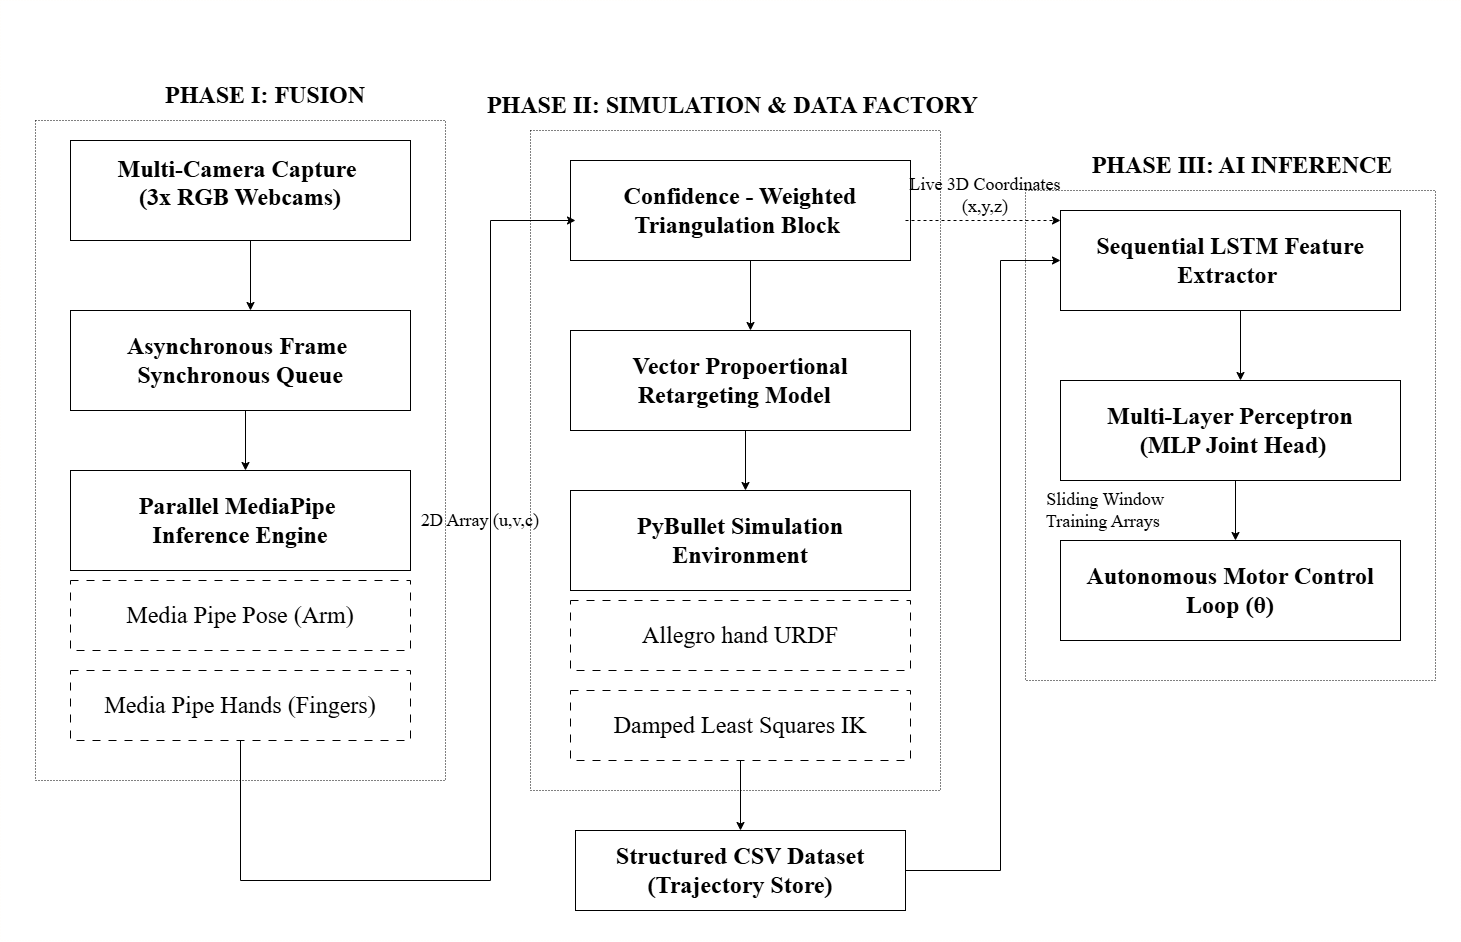
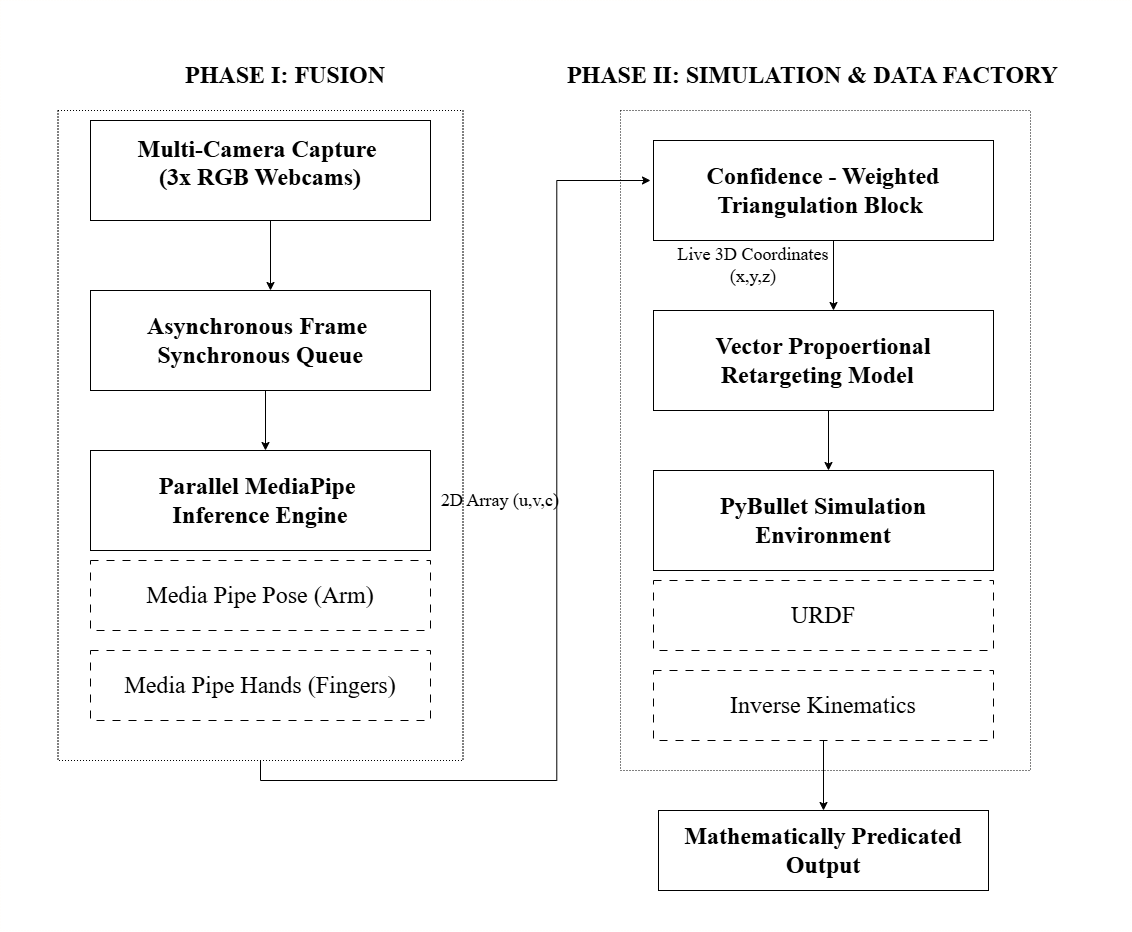
few changes

diff --git a/src/chapters/systemArchitectureAndMethodology.tex b/src/chapters/systemArchitectureAndMethodology.tex
@@ -1,8 +1,6 @@
 \chapter{PROPOSED SYSTEM/ METHODOLOGY}
 \section{System Overview}
-\usetikzlibrary{shapes.geometric, arrows, positioning, fit, backgrounds}
-The MotionBridge framework is designed as a modular, hardware-agnostic software pipeline that translates real-time multi-view human upper limb movements directly into physical simulation joint trajectories, automating behavioral cloning dataset factory operations. The structural design isolates computer vision feature extraction from physical joint simulation and downstream time-series machine learning policies. The high-level static distribution of components, interfaces, and boundary layers across the three primary execution phases of the framework is illustrated in Figure \ref{fig:block_diagram}.
-
+The MotionBridge framework is designed as a modular, hardware-agnostic software pipeline that translates real-time multi-view human upper limb movements directly into physical simulation joint trajectories, automating behavioral cloning dataset factory operations. The structural design isolates computer vision feature extraction in Phase I from physical joint simulation and serialization loops in Phase II. This analytical execution pipeline bypasses heavy iterative matrix math during runtime to achieve real-time performance, continuously serializing the resulting mathematically predicted joint angles and tracking coordinates. The distribution of components, interfaces, and boundary layers across the primary execution phases of the framework is illustrated in Figure \ref{fig:block_diagram}.
 \begin{figure}[H]
     \centering
     \includegraphics[width=1\textwidth]{src/images/block.drawio.png}
@@ -50,7 +48,7 @@ These vectors are proportionally normalized and scaled according to the mechanic
 The simulation environment is built inside the PyBullet physics engine utilizing the Kuka IIWA URDF manipulator model. This environment provides physically accurate rendering of joint movements and maps the mathematical spatial features to a standardized robotic configuration.
 
 \subsubsection{Damped Least Squares Inverse Kinematics}
-To map target positions to joint rotations without encountering mathematical divisions by zero near arm workspace boundaries (singularities), PyBullet's internal solver is configured to evaluate joint states via a Damped Least Squares (DLS) optimization algorithm:
+To map target positions to joint rotations without encountering mathematical divisions by zero near arm workspace boundaries (singularities), PyBullet's internal solver is configured to evaluate joint states via a \gls{dls} optimization algorithm:
 \begin{equation}
 \theta = \text{pybullet.calculateInverseKinematics}(\text{bodyId}, \text{jointId}, X_{\text{wrist}})
 \end{equation}
@@ -62,28 +60,7 @@ While maintaining live display rendering, the system operates as an automated da
 \text{Record} = \{t, X_{\text{shoulder}}, X_{\text{elbow}}, X_{\text{wrist}}, X_{\text{fingers}}, \theta\}
 \end{equation}
 
-\subsection{Phase III: Downstream Behavioral Cloning Policy (The AI Network)}
-
-\subsubsection{Temporal Sliding Window Reshaping}
-To train the machine learning framework to capture structural motion characteristics rather than static positions, the stored CSV logs are prepared for training using a sliding window strategy. Rows are reshaped into sequential arrays spanning 10 consecutive frames:
-\begin{equation}
-\mathcal{S}_t = [\text{Record}_{t-9}, \text{Record}_{t-8}, \dots, \text{Record}_t]
-\end{equation}
-This temporal structure allows the network to learn higher-order motion parameters, such as velocity and trajectory acceleration vectors.
-
-\subsubsection{LSTM-MLP Architecture and Policy Optimization}
-The prediction model is built in PyTorch using a sequential architecture:
-\begin{itemize}
-    \item \textbf{LSTM Layer Block:} Processes time-series state sequences ($\mathcal{S}_t$) to model historical trajectory paths and movement dynamics.
-    \item \textbf{MLP Target Head:} Takes the final hidden state vector from the LSTM and passes it through fully connected layers to predict the complete array of target motor angles ($\theta_{\text{predicted}}$).
-\end{itemize}
-The policy weights are optimized by minimizing Mean Squared Error (MSE) loss relative to the analytical DLS outputs collected during Phase II:
-\begin{equation}
-\mathcal{L}_{\text{MSE}} = \frac{1}{N} \sum_{j=1}^{N} (\theta_{\text{predicted}, j} - \theta_{\text{analytical}, j})^2
-\end{equation}
-
-\subsection{Deployment Framework: The Autonomous Control Loop}
-Once network optimization converges, the analytical Damped Least Squares Inverse Kinematics solver is decoupled and disabled. The live runtime script switches to an autonomous, forward-pass inference model. Raw webcam data passes through localized 2D extraction and triangulation math, routing directly into the trained LSTM-MLP policy engine to output joint angles ($\theta$) instantly. This eliminates the need for iterative matrix calculus, reducing system overhead and sustaining real-time processing speeds of 25–30 FPS on consumer CPUs. The step-by-step runtime pipeline execution path is illustrated in Figure \ref{fig:flowchart}.
+The step-by-step runtime pipeline execution path is illustrated in Figure \ref{fig:flowchart}.
 
 % \begin{figure}[hbt!]
 % \centering
@@ -133,7 +110,35 @@ Once network optimization converges, the analytical Damped Least Squares Inverse
 % \newpage
 \begin{figure}[H]
     \centering
-    \includegraphics[width=1\textwidth]{src/images/motionbridge.png}
-    \caption{Procedural Flowchart outlining the runtime sequence of software logic execution from initial frame acquisition to dataset training and control output.}
+    \includegraphics[width=1\textwidth]{src/images/motionbridge (1).png}
+    \caption{Procedural Flowchart outlining the runtime sequence.}
     \label{fig:flowchart}
 \end{figure}
+
+\section{System Robustness \& Future Work: Algorithmic Noise Mitigation}
+
+\subsubsection{The Problem of Mathematical Trajectory Discontinuity}
+A prominent challenge within this pure computer vision triangulation setup is coordinate discontinuity across frames. Even with multi-view redundancy, sudden body self-occlusion or spatial feature flickering causes quick spikes in calculated 3D targets ($X_{\text{3D}}$). Because standard analytical Inverse Kinematics (IK) evaluates frames independently, these small position jumps propagate directly into the output joint configurations ($\theta$). This causes high-frequency mechanical jitter in simulation, which corrupts the dataset for smooth imitation learning.
+
+To address these spatial jumps and build a curated, highly precise tracking resource, future iterations of this framework will investigate two distinct smoothing blocks implemented after the spatial triangulation step:
+
+\subsubsection{Proposed Extension A: Analytical Temporal Filtering (One Euro Filter)}
+To resolve tracking noise directly during runtime without adding significant CPU latency, we propose integrating an analytical adaptive low-pass filter, specifically a **One Euro Filter**. Unlike standard Butterworth filters that cause lag, or a traditional Kalman Filter that demands complex physical state tracking, the One Euro Filter dynamically adjusts its filtering cutoff frequency based on target velocity:
+\begin{equation}
+\alpha = \frac{1}{1 + \frac{\tau}{\Delta t}} \quad \text{where} \quad \tau = \frac{1}{2\pi \cdot (f_{\text{min}} + \beta \cdot | \dot{X}_{\text{3D}} |)}
+\end{equation}
+When target movement speed is low, the filter lowers the cutoff frequency to smooth out high-frequency sensor noise. When velocity ($|\dot{X}_{\text{3D}}|$) increases, it automatically scales up the cutoff to reduce lag, ensuring responsive tracking during quick movements.
+
+\subsubsection{Proposed Extension B: Deep Sequential Data Curation (LSTM Network)}
+For post-processing data curation or advanced prediction, we propose implementing a recurrent machine learning architecture based on **Long Short-Term Memory (LSTM)** neural networks. 
+
+Instead of treating frames as isolated events, an LSTM processes a moving sequence window of historical frames to learn continuous velocity patterns. This allows it to reconstruct coordinates when a joint is completely blocked from view. The proposed deep behavioral policy uses a sequential structure:
+\begin{itemize}
+    \item \textbf{LSTM Layer Block:} Processes a sequence window of past frames to track movement direction and velocity trends.
+    \item \textbf{MLP Projection Head:} Maps the processed temporal states to output clean, stable target joint angles ($\theta$), removing noise from the dataset.
+\end{itemize}
+This network will be trained by minimizing a Mean Squared Error (MSE) loss function augmented with a temporal smoothness penalty:
+\begin{equation}
+\mathcal{L} = \frac{1}{N} \sum_{j=1}^{N} (\theta_{\text{predicted}, j} - \theta_{\text{analytical}, j})^2 + \gamma \sum_{j=2}^{N} (\theta_{\text{predicted}, j} - \theta_{\text{predicted}, j-1})^2
+\end{equation}
+Here, $\gamma$ is a regularization factor that penalizes sudden changes between consecutive steps, ensuring smooth, highly curated data sequences for training actual robotic systems.

diff --git a/main.tex b/main.tex
@@ -51,9 +51,9 @@
 \input{src/chapters/systemArchitectureAndMethodology}
 
 % \input{src/chapters/implementationDetails}
-% \input{src/chapters/resultAndAnalysis}
+\input{src/chapters/resultAndAnalysis}
 % \input{src/chapters/remainingTasks}
-\input{src/chapters/expectedoutcomes}
+% \input{src/chapters/expectedoutcomes}
 
 % =====================
 % BACKMATTER / APPENDICES

diff --git a/src/frontmatter/abbreviations.tex b/src/frontmatter/abbreviations.tex
@@ -24,3 +24,6 @@
 \newacronym{usb}{USB}{Universal Serial Bus}
 \newacronym{var}{VAR}{Video Assistant Referee}
 \newacronym{vlm}{VLM}{Vision-Language Model}
+\newacronym{dls}{DLS}{Damped Least Squares}
+\newacronym{ram}{RAM}{Random Access Memory}
+\newacronym{pc}{PC}{Personal Computer}